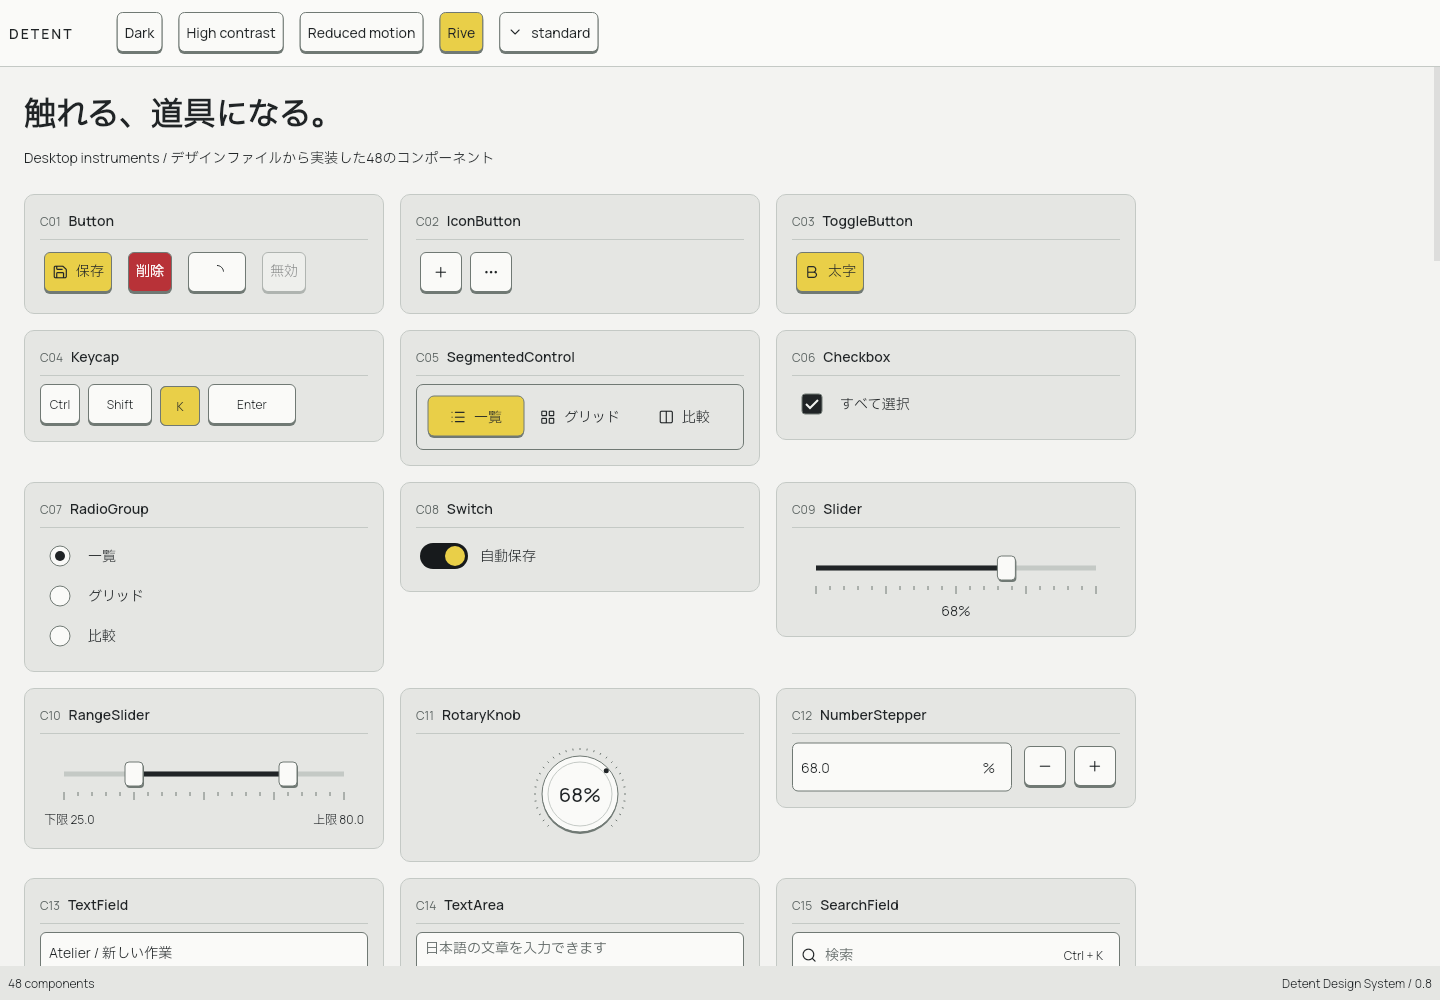
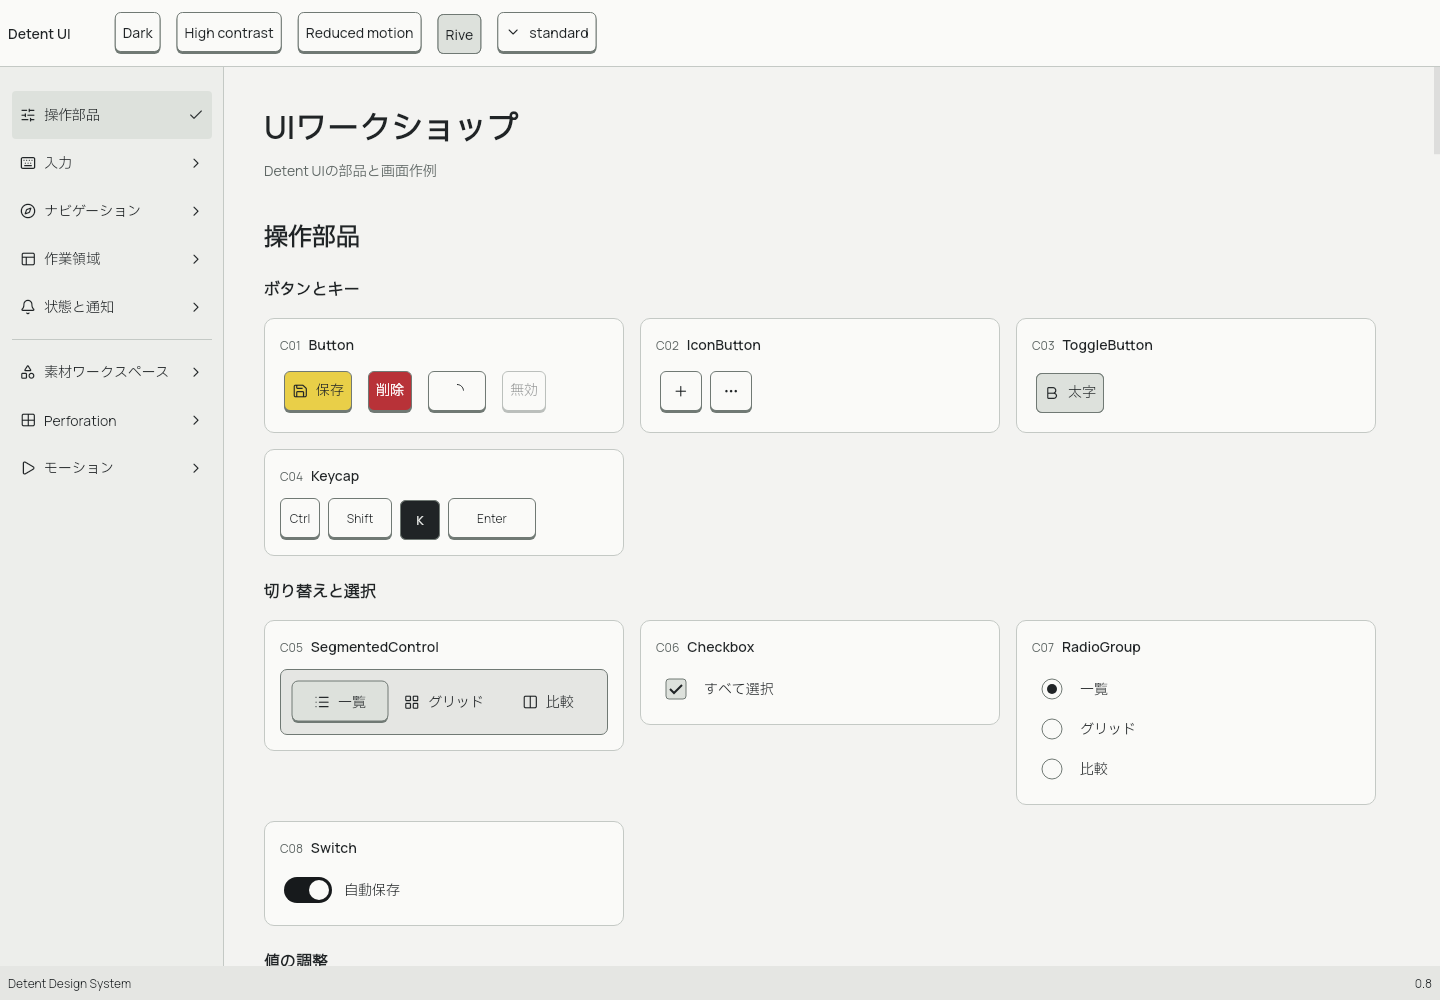
docs(example): refresh workshop guide and previews

diff --git a/README.md b/README.md
@@ -5,20 +5,20 @@ Flutter デスクトップ向けの UI パッケージ。`design_system.pen` の
 
 ## ギャラリー
 
-白・グレー・黒の面に、黄色の選択表示と控えめな厚みを組み合わせた、道具らしいデスクトップUIです。
-ボタンやノブは操作部として立体的に、一覧や文章は読みやすく平面的に表現します。
-以下はデザイン画像ではなく、実装したFlutterギャラリーのスクリーンショットです（1440×1000px）。
+サイドバーから、用途別の部品カタログと操作できる画面作例に移動できます。
+選択中の行はグレーの面とチェックで示し、黄色は保存や確定などの主要操作に使います。
+以下はFlutterギャラリーのスクリーンショットです（1440×1000px）。
 
 ### ライト：基本の操作部品
 
 ボタン、キーキャップ、排他的な選択、チェックボックス、スイッチ、スライダー、ノブ、数値入力。
-黄色は主要操作や選択に使い、細い輪郭と底面で操作面の構造を示します。
+ボタンとキー、切り替えと選択、値の調整の順に部品を確認できます。
 
 ![ライトテーマの操作部品ギャラリー](example/screenshots/light.png)
 
 ### ダーク：同じ部品を暗い作業環境へ
 
-背景・操作面・文字の色を役割ごとに切り替え、黄色の選択表示を維持します。
+背景・操作面・文字の色を役割ごとに切り替え、主要操作の黄色を維持します。
 ギャラリー上部からテーマ、高コントラスト、動きの抑制、表示密度を切り替えられます。
 
 ![ダークテーマの操作部品ギャラリー](example/screenshots/dark.png)
@@ -29,6 +29,12 @@ Flutter デスクトップ向けの UI パッケージ。`design_system.pen` の
 これらを組み合わせて、一覧と詳細を並べるデスクトップ画面を構成します。
 
 ![シェル・パネル・ツリー・データ表のギャラリー](example/screenshots/workspace.png)
+
+### 素材ワークスペース
+
+左で素材を探し、中央でプレビューを比較し、右で密度を調整します。ノブと数値入力は同じ値に連動します。
+
+![素材ワークスペースの作例](example/screenshots/material.png)
 
 ### フィードバック：値と処理状態を伝える部品
 

diff --git a/example/README.md b/example/README.md
@@ -1,3 +1,12 @@
-# detent_gallery
+# Detent UIワークショップ
 
-A new Flutter project.
+サイドバーから、操作部品、入力、ナビゲーション、作業領域、状態と通知の作例に移動できます。素材ワークスペースでは、素材を検索し、ノブや数値入力で密度を変更して、調整後の見た目と確定値を比較できます。PerforationとRiveの作例も収録しています。
+
+上部のツールバーでダークテーマ、高コントラスト、動きの抑制、Rive、表示密度を切り替えられます。
+
+このディレクトリで起動します。
+
+```sh
+flutter pub get
+flutter run -d linux
+```
